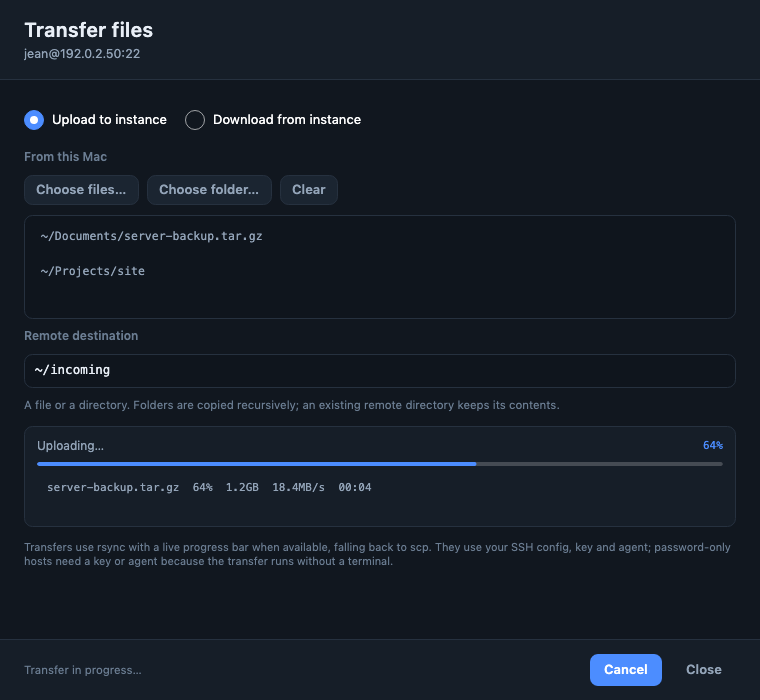
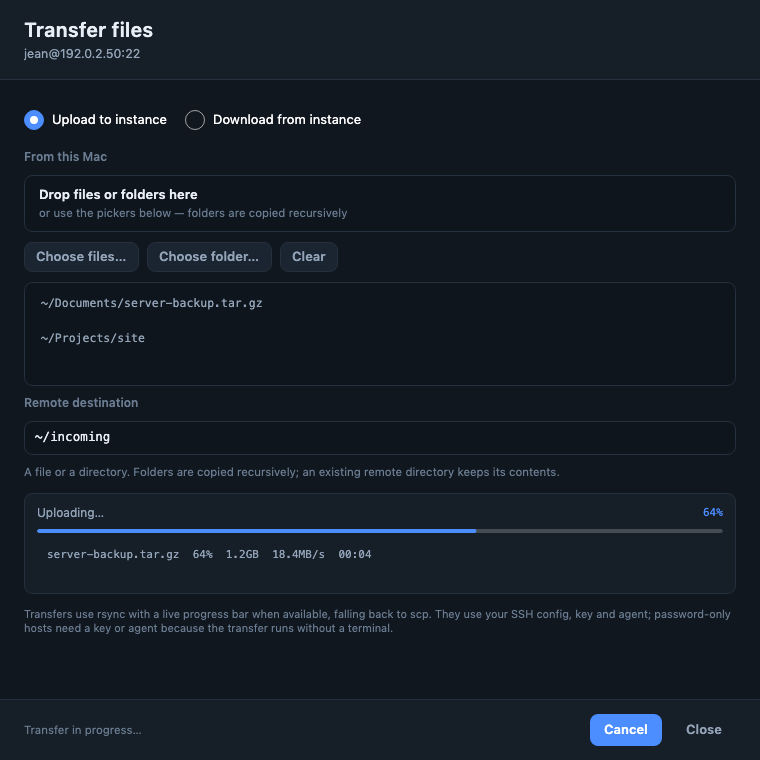
Add drag-and-drop uploads and clear sources after a successful copy
Transfer files now accepts dropped files and folders as well as the native pickers, with a highlighted drop target. Successful uploads clear the source list so the same files are not copied twice; failed or cancelled transfers keep it for retry. Version 2.1.9.

diff --git a/docs/index.html b/docs/index.html
@@ -170,11 +170,11 @@
         <h1>Your SSH world,<br><span class="accent">without the guesswork.</span></h1>
         <p class="lede">A careful dashboard for <strong>known_hosts</strong>, <strong>ssh_config</strong> and every key pair beside them. Inspect, add, edit, remove — with backups and a real terminal built in.</p>
         <div class="actions">
-          <a class="btn primary" href="https://github.com/jphermans/ssh-dashboard/releases/download/v2.1.8/SSH-Dashboard-2.1.8-macOS-arm64.dmg">Download for macOS <span class="small">Apple silicon</span></a>
-          <a class="btn secondary" href="https://github.com/jphermans/ssh-dashboard/releases/latest/download/SSH-Dashboard-2.1.8-Setup.exe">Windows installer <span class="small">EXE</span></a>
+          <a class="btn primary" href="https://github.com/jphermans/ssh-dashboard/releases/download/v2.1.9/SSH-Dashboard-2.1.9-macOS-arm64.dmg">Download for macOS <span class="small">Apple silicon</span></a>
+          <a class="btn secondary" href="https://github.com/jphermans/ssh-dashboard/releases/latest/download/SSH-Dashboard-2.1.9-Setup.exe">Windows installer <span class="small">EXE</span></a>
           <a class="btn secondary" href="https://github.com/jphermans/ssh-dashboard/releases/latest">All downloads ↗</a>
         </div>
-        <p class="fine">macOS 12+ · Windows 10/11 x64 · Linux x64 &nbsp;·&nbsp; <a href="https://github.com/jphermans/ssh-dashboard/releases/tag/v2.1.8">Version 2.1.8</a></p>
+        <p class="fine">macOS 12+ · Windows 10/11 x64 · Linux x64 &nbsp;·&nbsp; <a href="https://github.com/jphermans/ssh-dashboard/releases/tag/v2.1.9">Version 2.1.9</a></p>
         <div class="meta">
           <div><strong>Native terminal</strong>k9s, vim, htop</div>
           <div><strong>Safe writes</strong>backups + undo</div>
@@ -202,7 +202,7 @@
         <div class="card"><div class="icon">↺</div><h3>Backups and undo</h3><p>Every write is preceded by a timestamped backup. Undo restores every file touched by the last action, not just one.</p></div>
         <div class="card"><div class="icon">☾</div><h3>Made for the desktop</h3><p>System, dark and light themes. Resizable sidebar, table and details rail. Native macOS menu, Windows installer and Linux build.</p></div>
         <div class="card"><div class="icon">⌗</div><h3>Activity you can audit</h3><p>A local journal of every removal, edit, import, undo and restore. No cloud, no telemetry, no account.</p></div>
-        <div class="card"><div class="icon">⇅</div><h3>Files in both directions</h3><p>Open Files… in an SSH session to upload files or folders, or download a remote file or folder with native pickers and a live copy progress bar.</p></div>
+        <div class="card"><div class="icon">⇅</div><h3>Files in both directions</h3><p>Open Files… in an SSH session and drag files or folders in, or use the native pickers. Live progress, recursive copies and a cleared source list when done.</p></div>
       </div>
     </section>
 
@@ -233,9 +233,9 @@
         <p>Self-contained builds. No .NET runtime, no package manager, no account.</p>
       </div>
       <div class="downloads">
-        <div class="dl"><span class="os">macOS 12+</span><strong>Apple silicon DMG</strong><span>Apple silicon · 90 MB</span><a href="https://github.com/jphermans/ssh-dashboard/releases/download/v2.1.8/SSH-Dashboard-2.1.8-macOS-arm64.dmg">Download .dmg →</a></div>
-        <div class="dl"><span class="os">Windows 10/11</span><strong>Installer</strong><span>x64 · per-user · no admin prompt</span><a href="https://github.com/jphermans/ssh-dashboard/releases/download/v2.1.8/SSH-Dashboard-2.1.8-Setup.exe">Download .exe →</a></div>
-        <div class="dl"><span class="os">Linux</span><strong>Portable archive</strong><span>x64 · tar.gz</span><a href="https://github.com/jphermans/ssh-dashboard/releases/download/v2.1.8/SSH-Dashboard-2.1.8-linux-x64.tar.gz">Download .tar.gz →</a></div>
+        <div class="dl"><span class="os">macOS 12+</span><strong>Apple silicon DMG</strong><span>Apple silicon · 90 MB</span><a href="https://github.com/jphermans/ssh-dashboard/releases/download/v2.1.9/SSH-Dashboard-2.1.9-macOS-arm64.dmg">Download .dmg →</a></div>
+        <div class="dl"><span class="os">Windows 10/11</span><strong>Installer</strong><span>x64 · per-user · no admin prompt</span><a href="https://github.com/jphermans/ssh-dashboard/releases/download/v2.1.9/SSH-Dashboard-2.1.9-Setup.exe">Download .exe →</a></div>
+        <div class="dl"><span class="os">Linux</span><strong>Portable archive</strong><span>x64 · tar.gz</span><a href="https://github.com/jphermans/ssh-dashboard/releases/download/v2.1.9/SSH-Dashboard-2.1.9-linux-x64.tar.gz">Download .tar.gz →</a></div>
       </div>
       <div class="note"><strong>macOS note:</strong> the DMG is ad-hoc signed and not notarized. On first launch use <em>System Settings → Privacy &amp; Security → Open Anyway</em>. A notarized build requires a Developer ID certificate. <a href="https://github.com/jphermans/ssh-dashboard/blob/main/docs/APP-STORE.md" style="color:var(--accent-2)">Read the distribution notes →</a></div>
     </section>

diff --git a/dotnet/src/SshDashboard.App/Views/TransferWindow.axaml.cs b/dotnet/src/SshDashboard.App/Views/TransferWindow.axaml.cs
@@ -1,6 +1,7 @@
 using System.Collections.ObjectModel;
 using System.Diagnostics;
 using Avalonia.Controls;
+using Avalonia.Input;
 using Avalonia.Platform.Storage;
 using Avalonia.Threading;
 using SshDashboard.Core;
@@ -26,6 +27,10 @@ public partial class TransferWindow : Window
         SourcesList.ItemsSource = _sources;
         UploadRadio.IsCheckedChanged += (_, _) => UpdateMode();
         DownloadRadio.IsCheckedChanged += (_, _) => UpdateMode();
+        DragDrop.SetAllowDrop(this, true);
+        AddHandler(DragDrop.DragOverEvent, OnDragOver);
+        AddHandler(DragDrop.DragLeaveEvent, OnDragLeave);
+        AddHandler(DragDrop.DropEvent, OnDrop);
         Closing += (_, _) => CancelProcess();
         UpdateMode();
     }
@@ -53,6 +58,41 @@ public partial class TransferWindow : Window
         DownloadPanel.IsVisible = !upload;
         FooterHint.Text = upload ? "Copy local files or folders to the instance" :
             "Copy a remote file or folder to this Mac";
+    }
+
+    private void OnDragOver(object? sender, DragEventArgs e)
+    {
+        var accepts = UploadRadio.IsChecked == true && e.DataTransfer.Contains(DataFormat.File);
+        e.DragEffects = accepts ? DragDropEffects.Copy : DragDropEffects.None;
+        SetDropActive(accepts);
+        e.Handled = true;
+    }
+
+    private void OnDragLeave(object? sender, DragEventArgs e)
+    {
+        SetDropActive(false);
+        e.Handled = true;
+    }
+
+    private void OnDrop(object? sender, DragEventArgs e)
+    {
+        SetDropActive(false);
+        e.Handled = true;
+        if (UploadRadio.IsChecked != true || !e.DataTransfer.Contains(DataFormat.File)) return;
+
+        var files = e.DataTransfer.TryGetFiles();
+        if (files is null) return;
+        foreach (var item in files)
+        {
+            var path = item.TryGetLocalPath();
+            if (!string.IsNullOrWhiteSpace(path)) AddSource(path);
+        }
+    }
+
+    private void SetDropActive(bool active)
+    {
+        if (active) DropZone.Classes.Add("drop-active");
+        else DropZone.Classes.Remove("drop-active");
     }
 
     private async void PickFiles_Click(object? sender, Avalonia.Interactivity.RoutedEventArgs e)
@@ -179,6 +219,12 @@ public partial class TransferWindow : Window
                 Progress.Value = 100;
                 ProgressText.Text = "100%";
                 Progress.IsVisible = true;
+                if (upload)
+                {
+                    _sources.Clear();
+                    StatusText.Text = "Transfer complete · source list cleared";
+                    FooterHint.Text = "Source list cleared — choose files again to copy";
+                }
             }
             else
             {

diff --git a/README.md b/README.md
@@ -17,7 +17,7 @@ Built with **.NET 10** and **Avalonia** for macOS, Windows and Linux.
 ![Avalonia](https://img.shields.io/badge/Avalonia-11.3-8B44AC)
 ![Platforms](https://img.shields.io/badge/platforms-macOS%20%7C%20Windows%20%7C%20Linux-11171F)
 ![Tests](https://img.shields.io/badge/tests-15%20passing-3FCF8E)
-![Version](https://img.shields.io/badge/version-2.1.8-4C8DFF)
+![Version](https://img.shields.io/badge/version-2.1.9-4C8DFF)
 
 ![Hosts view](docs/screenshots/hosts-dark.png)
 
@@ -47,9 +47,11 @@ Built with **.NET 10** and **Avalonia** for macOS, Windows and Linux.
   preserved. `Match` and `Host *` blocks are read-only.
 - **File transfer** — open **Files…** in an SSH session to upload files or folders
   to the instance, or download a remote file or folder to a local folder. Both
-  directions use native file/folder pickers and `rsync` with a live progress bar
-  (falling back to `scp`) with your SSH config, key and agent. Password-only
-  hosts need an SSH key or agent because transfers run without a terminal.
+  directions use native file/folder pickers or drag and drop, and `rsync` with a
+  live progress bar (falling back to `scp`) with your SSH config, key and agent.
+  A successful upload clears the source list so it cannot be copied twice by
+  accident. Password-only hosts need an SSH key or agent because transfers run
+  without a terminal.
 - **PuTTY keys** — import `.ppk` files with a file dialog (validated, copied into `~/.ssh`, named after the selected host) or drop them there directly. `.ppk` v2/v3 files are recognised with their fingerprint. Unencrypted RSA/Ed25519 PPKs are converted to a temporary OpenSSH key for sessions, then deleted; passphrase-protected PPKs prompt once and convert through `puttygen` when installed.
 - **Keys** — private and public key files with type, SHA256 fingerprint, size
   and file permissions.
@@ -88,12 +90,12 @@ All builds are self-contained — no .NET runtime required on the target.
 
 | Platform | File |
 | --- | --- |
-| macOS 12+ (Apple silicon) | [`SSH-Dashboard-2.1.8-macOS-arm64.dmg`](https://github.com/jphermans/ssh-dashboard/releases/download/v2.1.8/SSH-Dashboard-2.1.8-macOS-arm64.dmg) |
-| Windows 10/11 x64 — installer | [`SSH-Dashboard-2.1.8-Setup.exe`](https://github.com/jphermans/ssh-dashboard/releases/download/v2.1.8/SSH-Dashboard-2.1.8-Setup.exe) |
-| Windows 10/11 x64 — portable | [`SSH-Dashboard-2.1.8-windows-x64.zip`](https://github.com/jphermans/ssh-dashboard/releases/download/v2.1.8/SSH-Dashboard-2.1.8-windows-x64.zip) |
-| Linux x64 | [`SSH-Dashboard-2.1.8-linux-x64.tar.gz`](https://github.com/jphermans/ssh-dashboard/releases/download/v2.1.8/SSH-Dashboard-2.1.8-linux-x64.tar.gz) |
+| macOS 12+ (Apple silicon) | [`SSH-Dashboard-2.1.9-macOS-arm64.dmg`](https://github.com/jphermans/ssh-dashboard/releases/download/v2.1.9/SSH-Dashboard-2.1.9-macOS-arm64.dmg) |
+| Windows 10/11 x64 — installer | [`SSH-Dashboard-2.1.9-Setup.exe`](https://github.com/jphermans/ssh-dashboard/releases/download/v2.1.9/SSH-Dashboard-2.1.9-Setup.exe) |
+| Windows 10/11 x64 — portable | [`SSH-Dashboard-2.1.9-windows-x64.zip`](https://github.com/jphermans/ssh-dashboard/releases/download/v2.1.9/SSH-Dashboard-2.1.9-windows-x64.zip) |
+| Linux x64 | [`SSH-Dashboard-2.1.9-linux-x64.tar.gz`](https://github.com/jphermans/ssh-dashboard/releases/download/v2.1.9/SSH-Dashboard-2.1.9-linux-x64.tar.gz) |
 
-Checksums: [`SHA256SUMS-2.1.8.txt`](https://github.com/jphermans/ssh-dashboard/releases/download/v2.1.8/SHA256SUMS-2.1.8.txt).
+Checksums: [`SHA256SUMS-2.1.9.txt`](https://github.com/jphermans/ssh-dashboard/releases/download/v2.1.9/SHA256SUMS-2.1.9.txt).
 
 ### macOS
 
@@ -119,7 +121,7 @@ assessment (the current sandbox-dependent design is not App Store-ready).
 A branded EXE installer is built **manually**, never on a push:
 
 1. Open **Actions → windows-installer → Run workflow**.
-2. Enter the version (for example `2.1.8`) and run it.
+2. Enter the version (for example `2.1.9`) and run it.
 3. The run attaches `SSH-Dashboard-<version>-Setup.exe` to the matching GitHub
    release, and also uploads it as a workflow artifact.
 

diff --git a/docs/APP-STORE.md b/docs/APP-STORE.md
@@ -61,9 +61,9 @@ codesign --force --deep --options runtime --timestamp \
 codesign --verify --deep --strict --verbose=2 "$APP"
 
 # Re-create the DMG from the signed app, then:
-xcrun notarytool submit "SSH-Dashboard-2.1.8-macOS-arm64.dmg" \
+xcrun notarytool submit "SSH-Dashboard-2.1.9-macOS-arm64.dmg" \
   --keychain-profile "ssh-dashboard-notary" --wait
-xcrun stapler staple "SSH-Dashboard-2.1.8-macOS-arm64.dmg"
+xcrun stapler staple "SSH-Dashboard-2.1.9-macOS-arm64.dmg"
 spctl -a -vvv -t install "SSH Dashboard.app"
 ```
 
@@ -134,6 +134,6 @@ flow. The current Avalonia desktop code does not port to iOS as-is.
 
 ## Recommendation
 
-Ship 2.1.8 as a **notarized Developer ID download** once the Developer ID
+Ship 2.1.9 as a **notarized Developer ID download** once the Developer ID
 certificate is available. Keep the App Store as a possible future product with
 an in-app SSH engine, not as a repackaging of this build.
